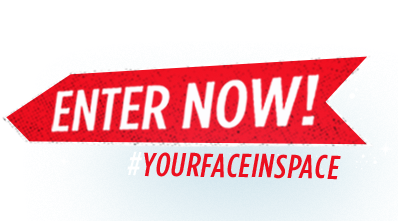
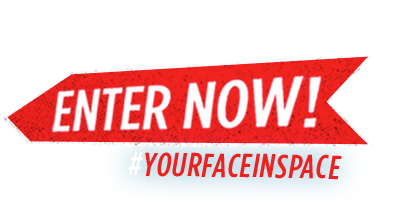
fix the enter now image, the glow was cut

diff --git a/index.html b/index.html
@@ -175,7 +175,7 @@
                         <div class="enter-now layer-2">
                             
                             <a href="http://emergespace.magnolia.thelatenightsalon.co.uk/#/enter-your-face">
-                            <img src="img/enter-now.png" />
+                            <img src="img/enter-now.png?201404071609" />
                             </a>
 
                         </div>
